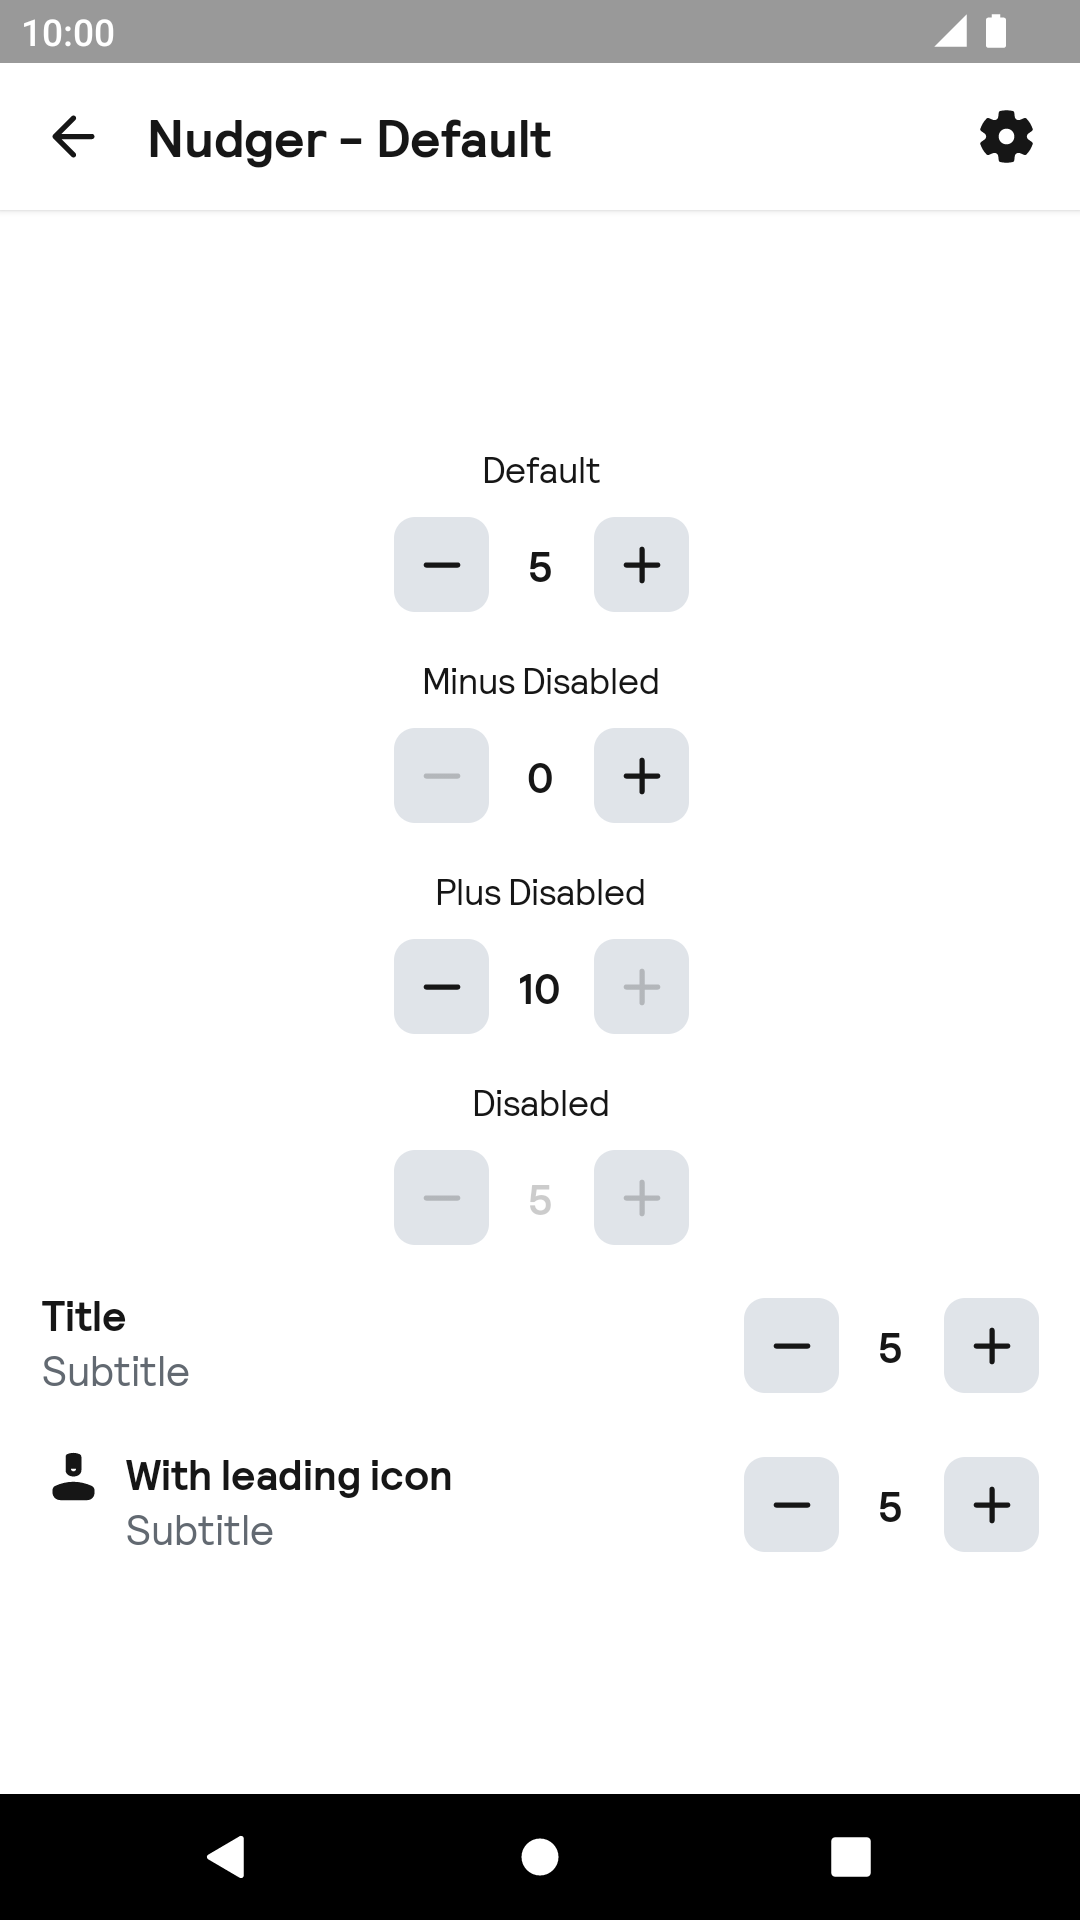
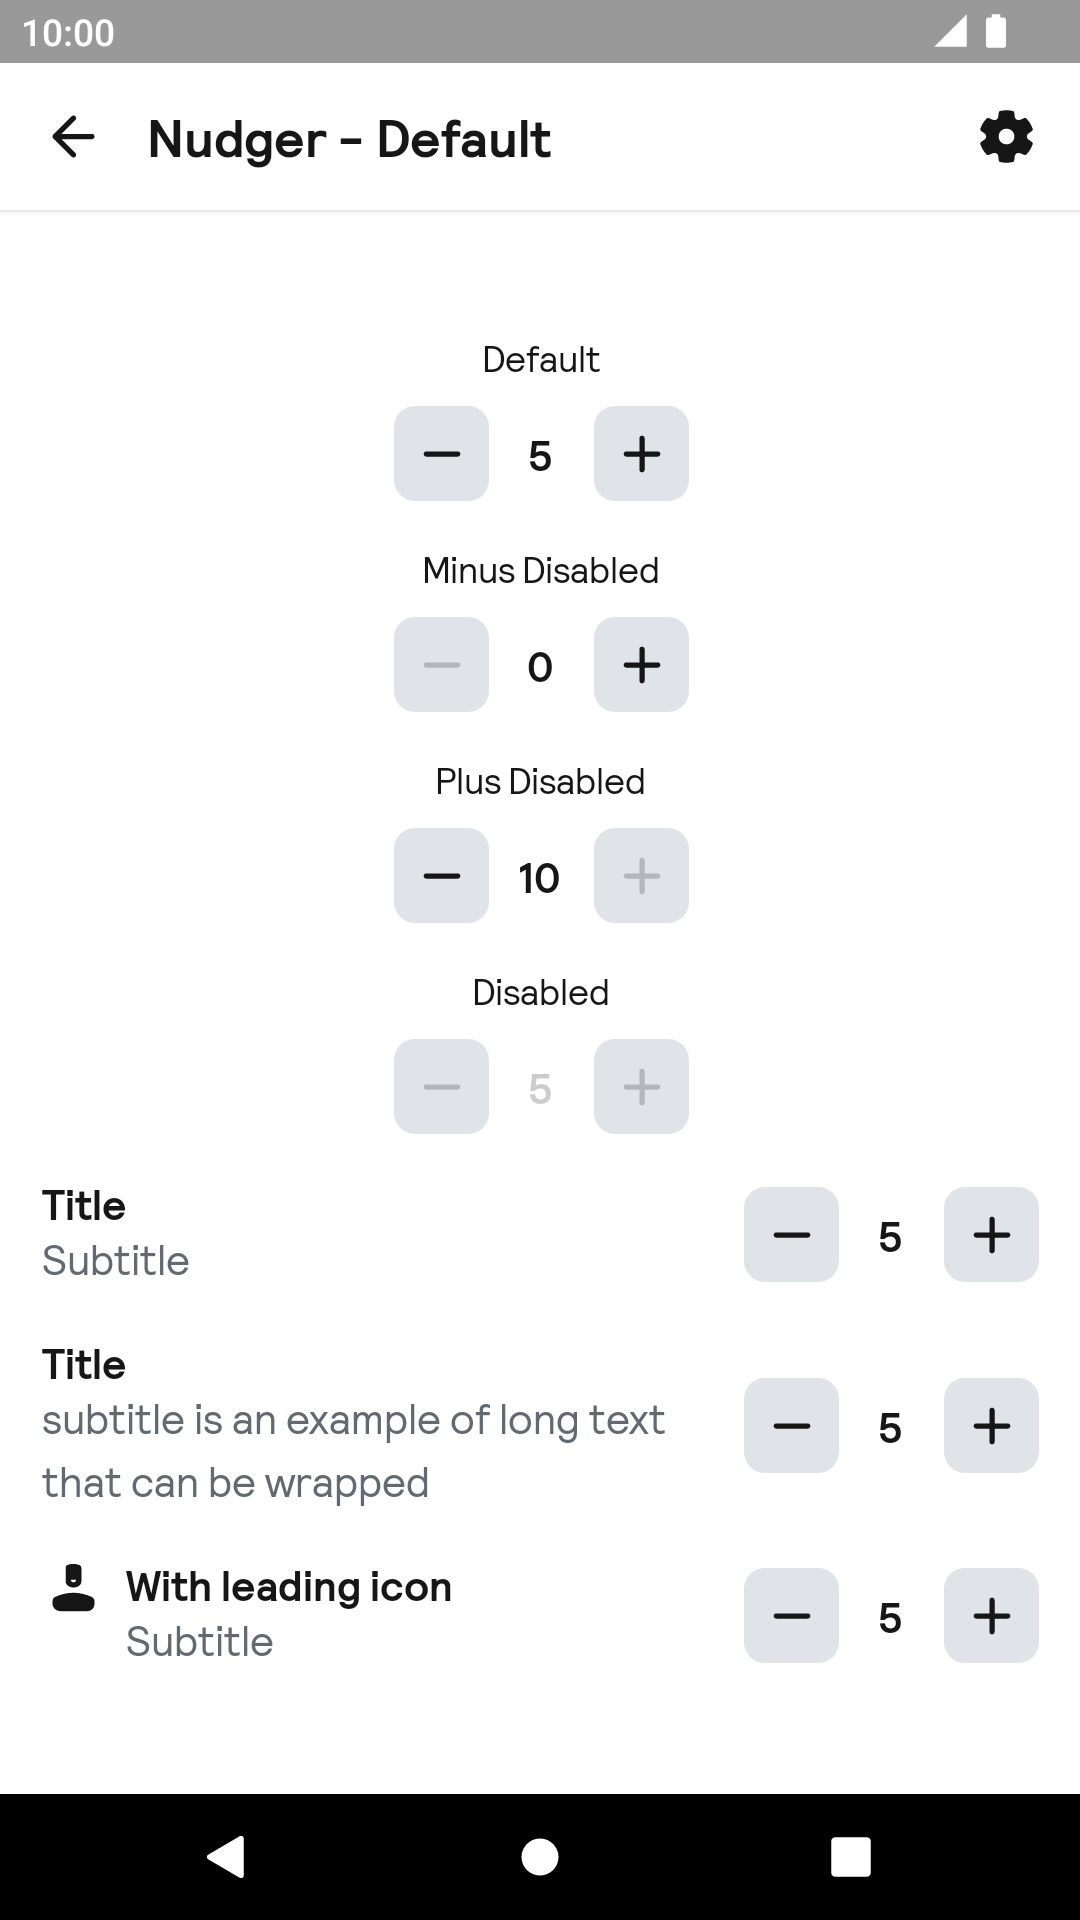
[PAN-3132] Fix bpk nudger for subtitle long case (#2014)
* change overflow and maxline style for nudger

* Updated snapshots

* remove unuse line since default values and add more line case snapshot

* add BpkNudgerTest long subtitle case

* Updated snapshots

* Empty commit

---------

diff --git a/app/src/test/java/net/skyscanner/backpack/compose/nudger/BpkNudgerTest.kt b/app/src/test/java/net/skyscanner/backpack/compose/nudger/BpkNudgerTest.kt
@@ -18,11 +18,13 @@
 
 package net.skyscanner.backpack.compose.nudger
 
+import androidx.compose.ui.res.stringResource
 import net.skyscanner.backpack.compose.BpkSnapshotTest
 import net.skyscanner.backpack.BpkTestVariant
 import net.skyscanner.backpack.compose.icon.BpkIcon
 import net.skyscanner.backpack.compose.tokens.Account
 import net.skyscanner.backpack.Variants
+import net.skyscanner.backpack.demo.R
 import net.skyscanner.backpack.demo.compose.NudgerExample
 import net.skyscanner.backpack.demo.compose.NudgerRowExample
 import net.skyscanner.backpack.demo.compose.NudgerStoryAvg
@@ -86,6 +88,12 @@ class BpkNudgerTest : BpkSnapshotTest() {
     @Variants(BpkTestVariant.Default)
     fun withNoSubtitle() = snap {
         NudgerRowExample(subtitle = null)
+    }
+
+    @Test
+    @Variants(BpkTestVariant.Default)
+    fun withLongSubtitle() = snap {
+        NudgerRowExample(subtitle = stringResource(R.string.generic_subtitle_long_case))
     }
 
     @Test

diff --git a/app/src/main/java/net/skyscanner/backpack/demo/compose/NudgerStory.kt b/app/src/main/java/net/skyscanner/backpack/demo/compose/NudgerStory.kt
@@ -74,6 +74,11 @@ fun NudgerStory(modifier: Modifier = Modifier) {
 
         NudgerRowExample(
             modifier = Modifier.fillMaxWidth(),
+            subtitle = stringResource(R.string.generic_subtitle_long_case),
+        )
+
+        NudgerRowExample(
+            modifier = Modifier.fillMaxWidth(),
             title = stringResource(R.string.generic_with_leading_icon),
             icon = BpkIcon.Account,
         )

diff --git a/backpack-compose/src/main/kotlin/net/skyscanner/backpack/compose/nudger/BpkNudger.kt b/backpack-compose/src/main/kotlin/net/skyscanner/backpack/compose/nudger/BpkNudger.kt
@@ -160,8 +160,6 @@ fun BpkNudger(
                         text = subtitle,
                         style = BpkTheme.typography.bodyDefault,
                         color = BpkTheme.colors.textSecondary,
-                        maxLines = 1,
-                        overflow = TextOverflow.Ellipsis,
                         modifier = Modifier.invisibleSemantic(),
                     )
                 }
